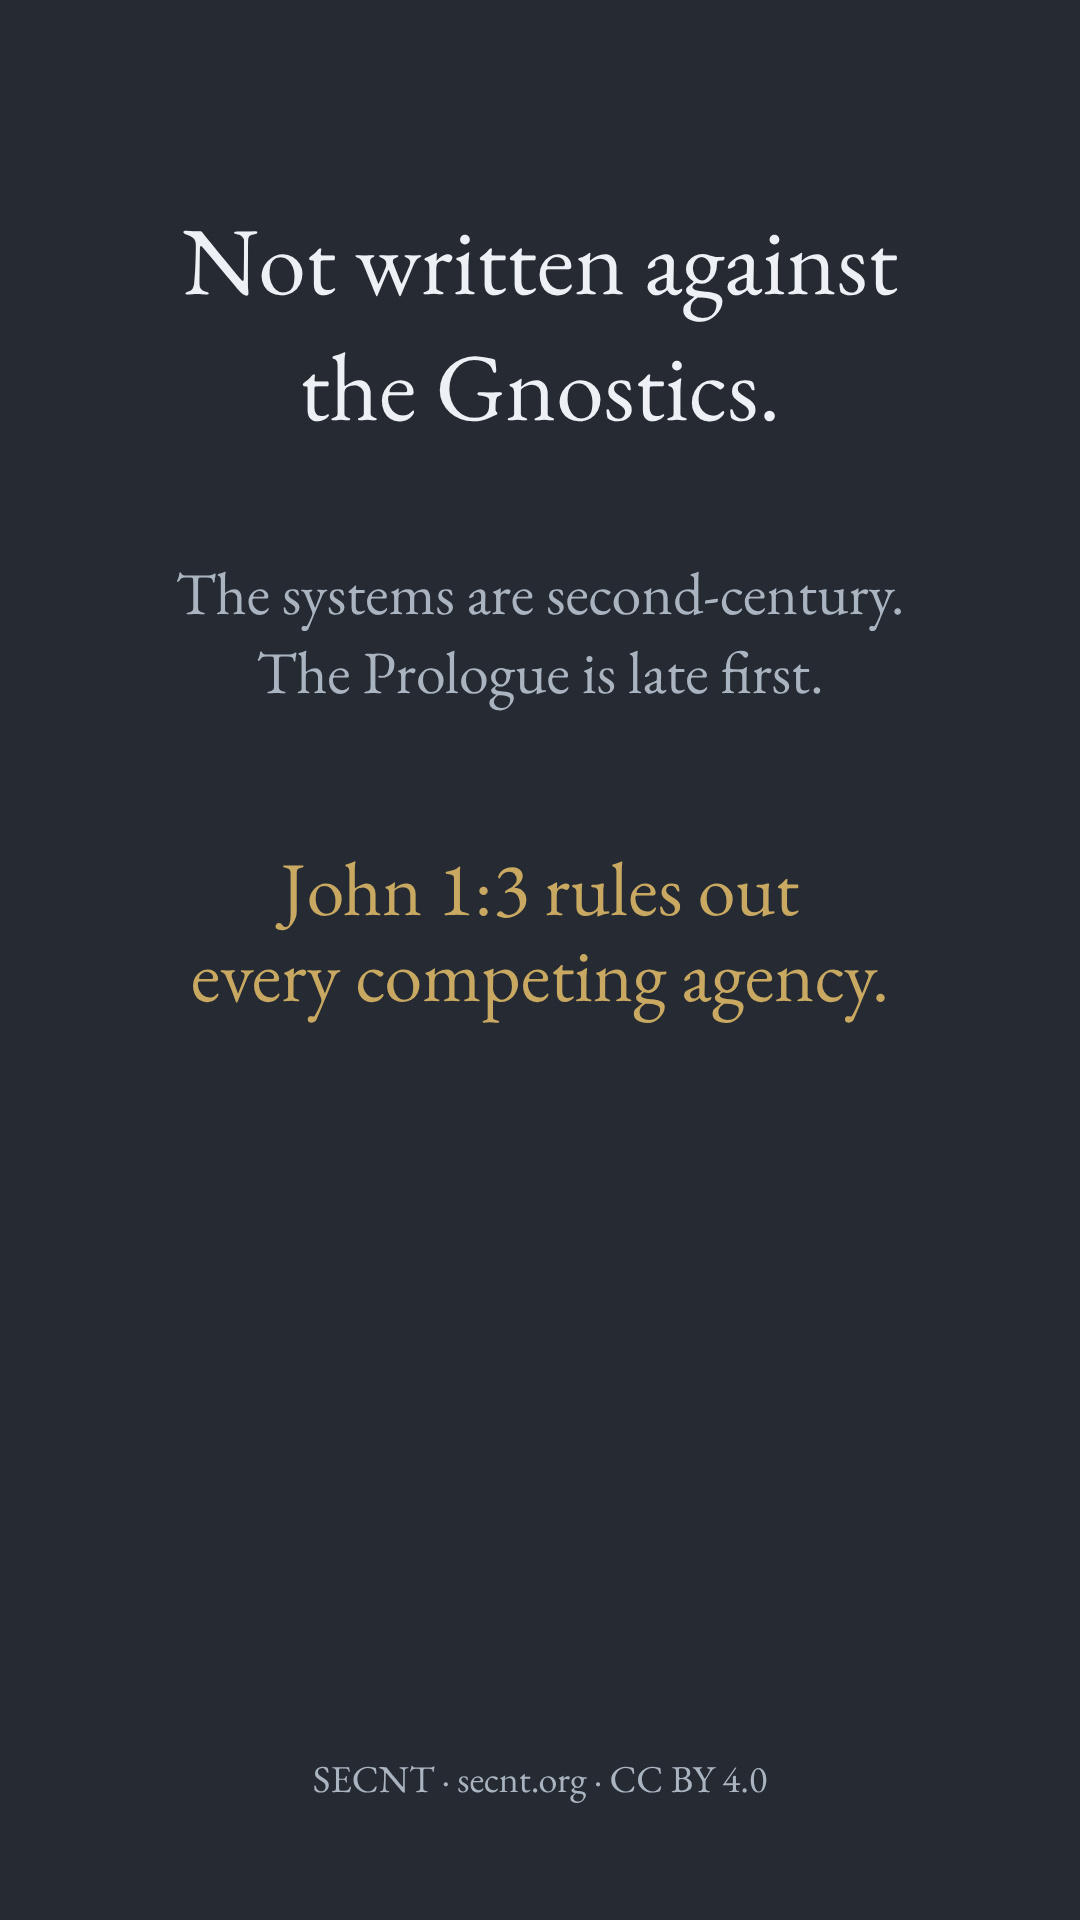
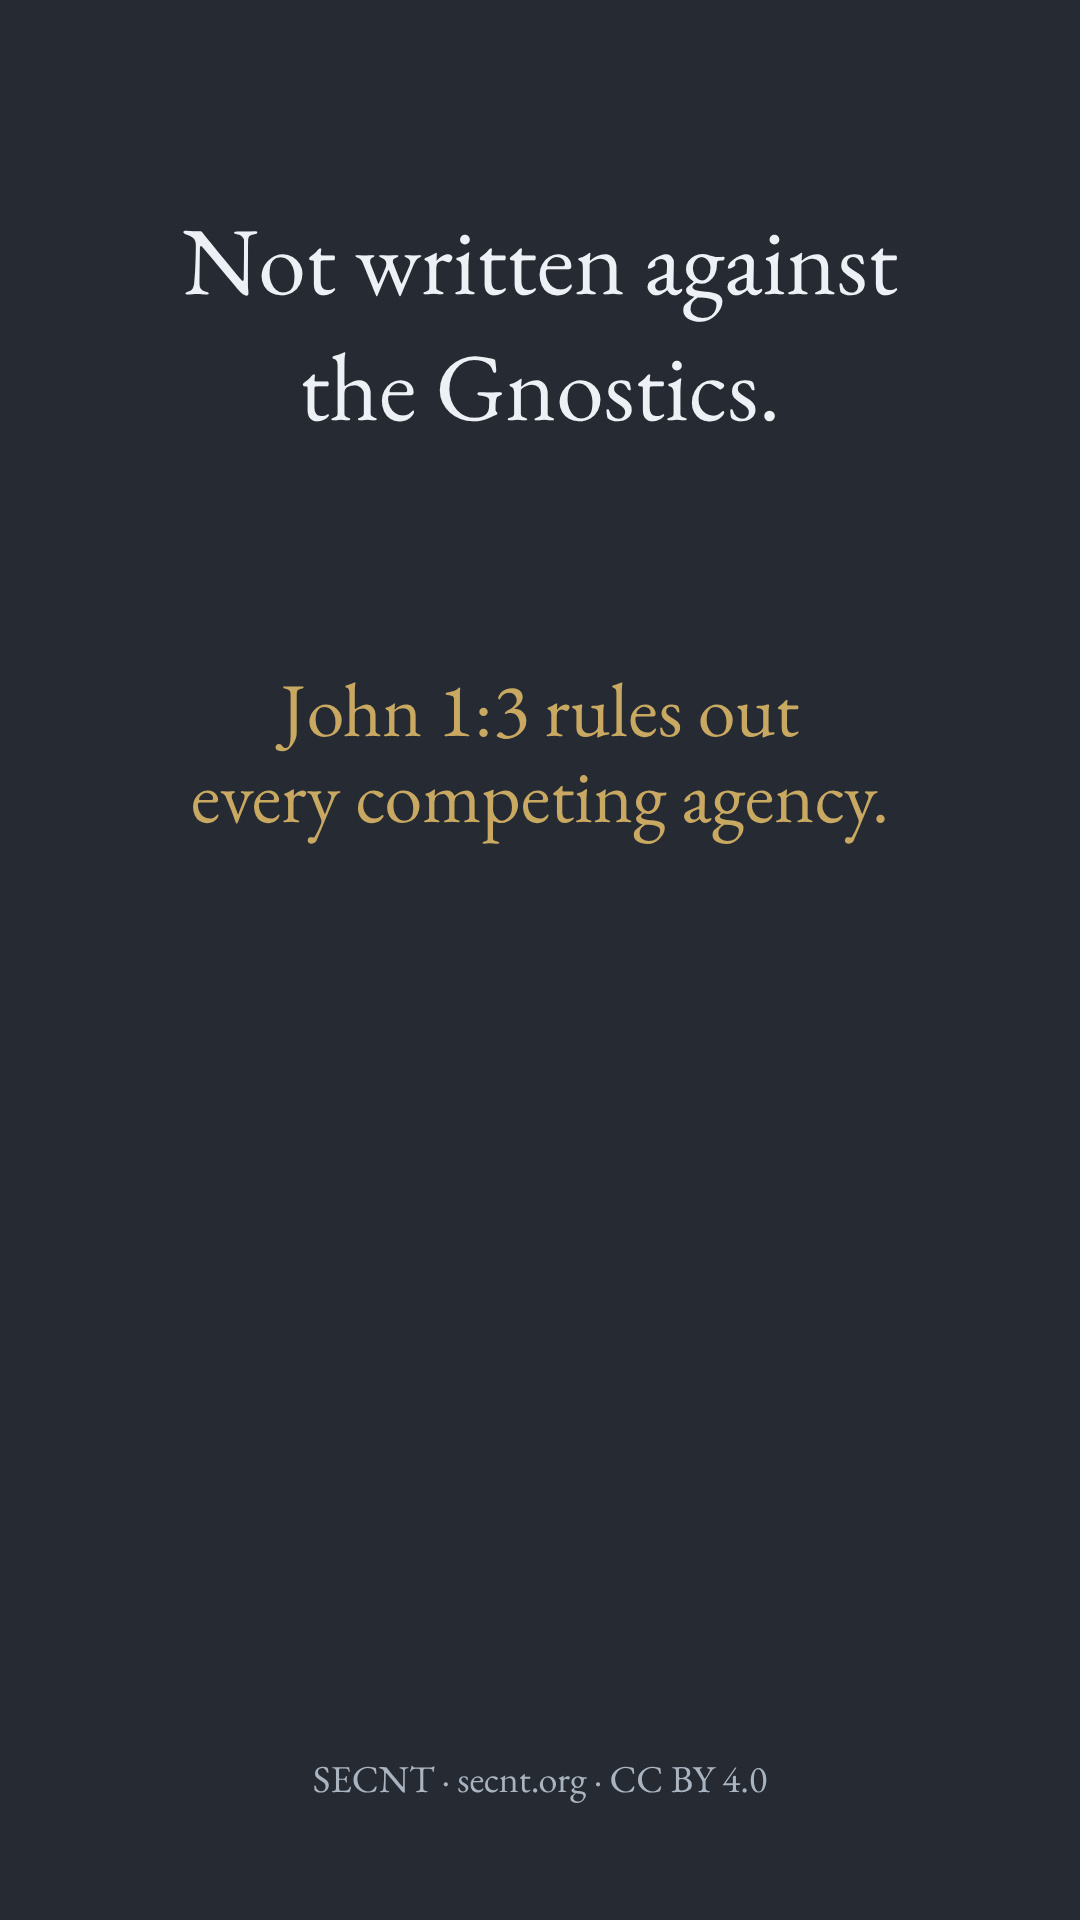
Shorts slot 24 under Plan D29: 9:16 served copy replaced, page body carries the two downloads' jobs
The 9:16 now poses and does not answer (Plan D29): the dating block is 16:9-only, so the served 9:16 copy is replaced with the revised master - 116,318 B, SHA-256 efb6708a9eefc1f5b83f30356094b056deb366ab096cb156ab68f2bc86b0a980.
The 16:9 served copy is NOT replaced and was re-byte-checked instead: its master re-rendered bit-identical at the D29 pass, same 165,002 B and same SHA-256, so D29 is provably confined to one ratio.
Page body gains the two downloads' jobs in the Pedagogical task (D29(e), the Editor's ruling): the wide slide is the talking points to project while teaching, the tall slide is the bulletin and newsletter form that keeps the question open. Both are equip-tier.
The download captions themselves are the page class's, rendered by SlideResourcePage.astro and not carried in frontmatter, so this register does not set them - putting the use into the labels would route to Web Dev by work order and is not proposed.
Stub re-read at the moment of writing; scheduled 2026-09-16 and draft true untouched and read back off the tree.

Not done: the flip is still GATE S2(a) and is the Editor's.
Not pushed.

Authorized by: Editor (session standing approval, 2 Sep 2026; format ruling 3 Sep 2026)
Lane: Commentary Production - Shorts register

Changed region(s): [[0.1833, 0.3125, 0.825, 0.5312], [0.7639, 0.3125, 0.7944, 0.3438], [0.1833, 0.2812, 0.2139, 0.3125]]

diff --git a/src/content/slides/24-not-against-the-gnostics.md b/src/content/slides/24-not-against-the-gnostics.md
@@ -17,4 +17,4 @@ You have almost certainly heard it, and you may well have said it: John wrote ve
 
 ## Pedagogical task
 
-This slide's job is to **take a claim away and hand back a larger one in the same breath** — and the restraint is that you must not spend the whole time on the taking away. The temptation with a corrected misreading is to enjoy the correction; do that and your hearer leaves with a hole where a familiar line used to be. Project the slide and read it in its own order: the refusal at the top, the two dates in the middle, and then stop on the gold line and stay there, because that is the part they are meant to carry out of the room. From the pulpit the whole move is one sentence: *do not say John wrote this against the Gnostics — say he wrote it against every rival, and the Gnostics were only the most famous.* In a class, put the two dates side by side first and let them see the claim fail on its own before you say anything about what replaces it; the correction lands better when the hearer has already made it. **What not to do:** do not turn it into a lecture on Gnosticism. The systems are not the subject — the *class of things the verse rules out* is the subject, and the Gnostics are on the screen only as the most famous member of it. And do not overcorrect: the polemic is real and the edge is genuinely there, so a teacher who says John had nothing to do with any of this has swapped one wrong claim for another.
+This slide's job is to **take a claim away and hand back a larger one in the same breath** — and the restraint is that you must not spend the whole time on the taking away. The temptation with a corrected misreading is to enjoy the correction; do that and your hearer leaves with a hole where a familiar line used to be. Project the slide and read it in its own order: the refusal at the top, the two dates in the middle, and then stop on the gold line and stay there, because that is the part they are meant to carry out of the room. From the pulpit the whole move is one sentence: *do not say John wrote this against the Gnostics — say he wrote it against every rival, and the Gnostics were only the most famous.* In a class, put the two dates side by side first and let them see the claim fail on its own before you say anything about what replaces it; the correction lands better when the hearer has already made it. **What not to do:** do not turn it into a lecture on Gnosticism. The systems are not the subject — the *class of things the verse rules out* is the subject, and the Gnostics are on the screen only as the most famous member of it. And do not overcorrect: the polemic is real and the edge is genuinely there, so a teacher who says John had nothing to do with any of this has swapped one wrong claim for another. **Two downloads, two jobs.** The **wide slide carries the whole move** — the claim, the dates and the replacement — and it is the one to project while you teach from it; the talking points are all on it. The **tall slide carries the question and the replacement without the dates**, which makes it the one for a bulletin, a newsletter column or an invitation: it raises the problem and sends the reader to find out why, rather than settling it in a box they will read once and put down.
